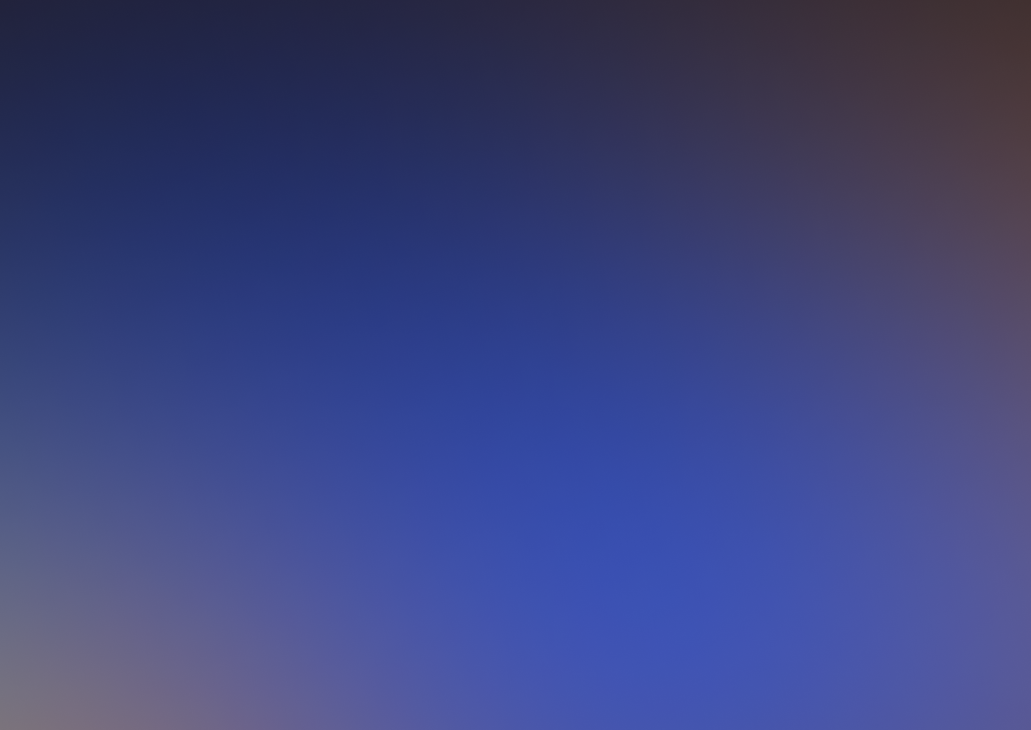
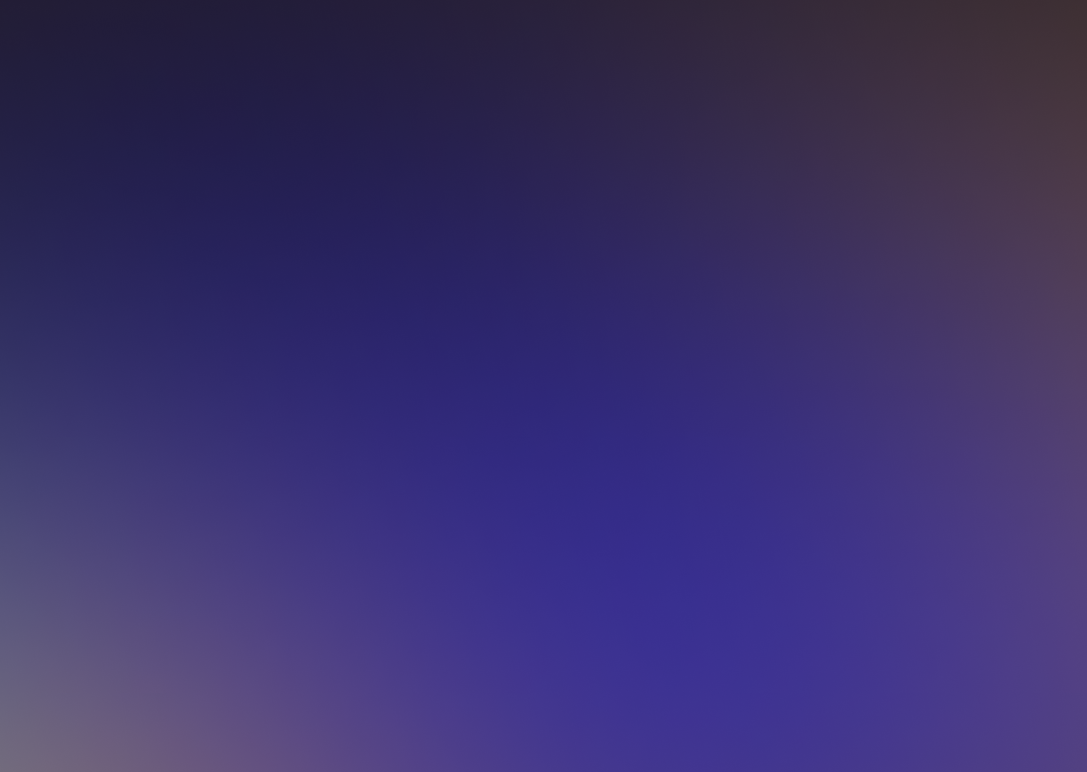
System Background Updated

diff --git a/src/app/page.js b/src/app/page.js
@@ -8,62 +8,67 @@ import {
   CardContent,
 } from "@/components/ui/card"
 import { Button } from "@/components/ui/button";
+import Link from "next/link";
 
 export default function Home() {
   return (
-    <div className="w-[440px] h-[464px]">
-      <Card className="p-8 
-                      rounded-xl 
-                      text-center 
-                      shadow-xl
-                      text-gray-900 
-                      dark:bg-gray-900
-                      dark:text-gray-900">
-        <div className="mb-6">
-           <Image
-            src={Logo}
-            alt="Aretex Logo"
-            width={170}
-            height={170}
-            className="mx-auto"
-          />
-        </div>
+    <div className="fixed inset-0 flex items-center justify-center">
+      <div className="w-[440px]">
+        <Card className="p-8 
+                        rounded-xl 
+                        text-center 
+                        shadow-xl
+                        text-gray-900 
+                        dark:bg-gray-900
+                        dark:text-gray-900">
+          <div className="mb-6">
+            <Image
+              src={Logo}
+              alt="Aretex Logo"
+              width={170}
+              height={170}
+              className="mx-auto"
+            />
+          </div>
 
-       <CardContent className="space-y-2 text-left">
-          <h1 className="text-2xl font-semibold">Sign in</h1>
-          <p className="text-sm text-gray-500 dark:text-gray-400">
-            to continue to AretexDashboard
-          </p>
-        </CardContent>
+          <CardContent className="space-y-2 text-left">
+            <h1 className="text-2xl font-semibold">Sign in</h1>
+            <p className="text-sm text-gray-500 dark:text-gray-400">
+              to continue to AretexDashboard
+            </p>
+          </CardContent>
 
-       <div className="flex justify-center">
-          <Button
-            variant="outline"
-            className="w-[325px] 
-                       flex 
-                       items-center 
-                       justify-between 
-                       px-8 py-4 
-                       text-gray-700 
-                       border-gray-300 
-                       hover:bg-gray-100
-                       dark:text-gray-700
-                       dark:border-gray-700
-                       dark:hover:bg-gray-800">
+          <div className="flex justify-center mt-6">
+            <Link href="/dashboard/overview" passHref>
+              <Button
+                variant="outline"
+                className="w-[325px] 
+                           flex 
+                           items-center 
+                           justify-between 
+                           px-8 py-4 
+                           text-gray-700 
+                           border-gray-300 
+                           hover:bg-gray-100
+                           dark:text-gray-700
+                           dark:border-gray-700
+                           dark:hover:bg-gray-800">
 
-            <div className="flex items-center gap-2">
-                <Image
-                src={GoogleIcon}
-                alt="Google"
-                width={18}
-                height={18}
-              />
-              <span>Continue to Google</span>
-            </div>
-           
-          </Button>
-        </div>
-      </Card>
+                <div className="flex items-center gap-2">
+                  <Image
+                    src={GoogleIcon}
+                    alt="Google"
+                    width={18}
+                    height={18}
+                  />
+                  <span>Continue to Google</span>
+                </div>
+
+              </Button>
+            </Link>
+          </div>
+        </Card>
+      </div>
     </div>
   );
 }

diff --git a/src/app/globals.css b/src/app/globals.css
@@ -122,7 +122,55 @@
 }
 
 @layer components {
+  /* Light mode */
   .system-bg {
-    
+    background:
+      radial-gradient(
+        circle at 95% 35%,               /* orange highlight near upper right edge */
+        rgba(226, 162, 74, 0.45) 0%,
+        rgba(226, 162, 74, 0.3) 15%,
+        rgba(7, 15, 185, 0) 55%
+      ),
+      radial-gradient(
+        circle at 20% 90%,               /* orange glow bottom left */
+        rgba(226, 162, 74, 0.45) 0%,
+        rgba(226, 162, 74, 0.3) 15%,
+        rgba(7, 15, 185, 0) 55%
+      ),
+      radial-gradient(
+        circle at 50% 50%,               /* main blue depth */
+        rgba(7, 15, 185, 1) 0%,
+        rgba(7, 15, 185, 0.9) 40%,
+        rgba(4, 9, 90, 1) 100%
+      );
+    background-attachment: fixed;
+    background-size: cover;
+    background-repeat: no-repeat;
+  }
+
+  /* Dark mode */
+  .dark .system-bg {
+    background:
+      radial-gradient(
+        circle at 95% 30%,               /* orange highlight upper right edge */
+        rgba(226, 162, 74, 0.5) 0%,
+        rgba(205, 126, 17, 0.2) 25%,
+        rgba(13, 18, 113, 0) 70%
+      ),
+      radial-gradient(
+        circle at 15% 85%,               /* bottom left orange glow */
+        rgba(214, 146, 49, 0.5) 0%,
+        rgba(207, 140, 47, 0.15) 30%,
+        rgba(9, 11, 58, 0) 70%
+      ),
+      radial-gradient(
+        circle at 50% 50%,               /* main indigo depth */
+        rgba(9, 11, 58, 1) 0%,
+        rgba(7, 15, 186, 0.9) 40%,
+        rgba(4, 7, 48, 1) 100%
+      );
+    background-attachment: fixed;
+    background-size: cover;
+    background-repeat: no-repeat;
   }
 }

diff --git a/src/app/layout.js b/src/app/layout.js
@@ -23,15 +23,10 @@ export default function RootLayout({
   }) {
   return (
     <html lang="en" suppressHydrationWarning>
-      <body
-        className={`${geistSans.variable} ${geistMono.variable} antialiased 
-        bg-cover bg-center bg-no-repeat
-        bg-[url('images/bg-light.png')] 
-        dark:bg-[url('app/images/bg-dark.png)]
-        min-h-screen 
-        flex 
-        items-center 
-        justify-center`} 
+    <body className={`${geistSans.variable} ${geistMono.variable} antialiased 
+      min-h-screen 
+      flex items-center 
+      justify-center system-bg`}
       >
         <ThemeProvider
           attribute="class"
